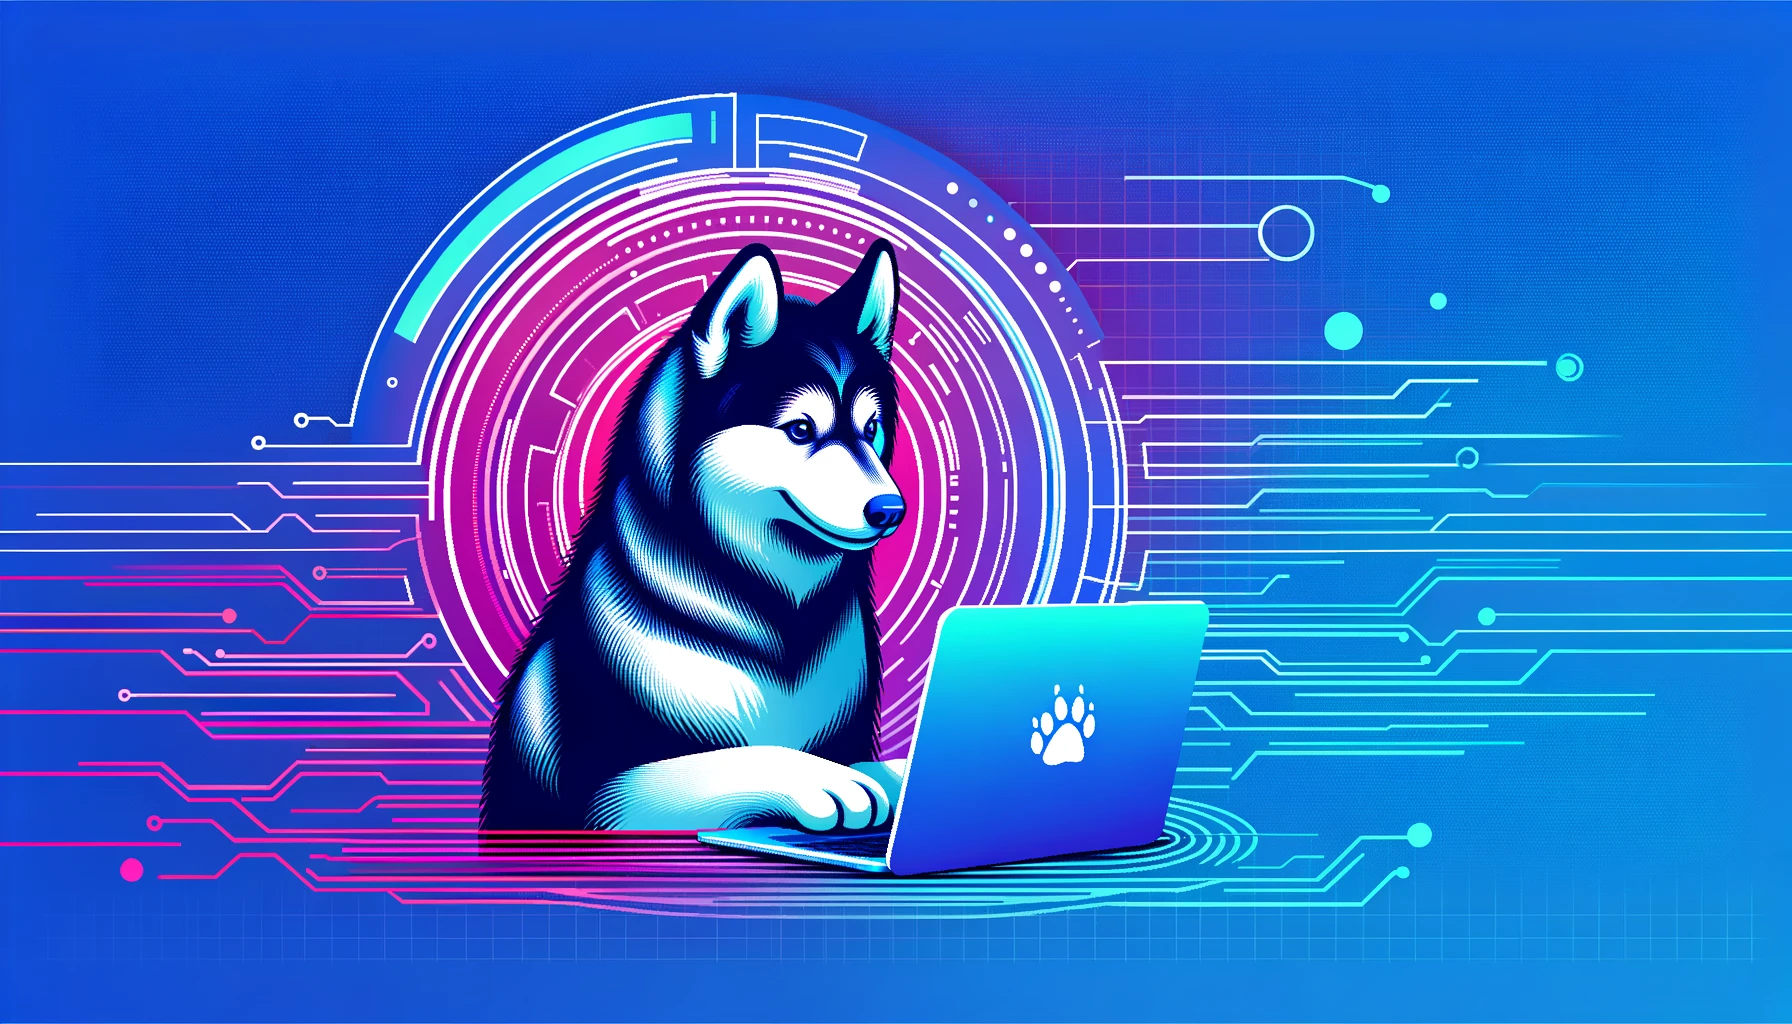
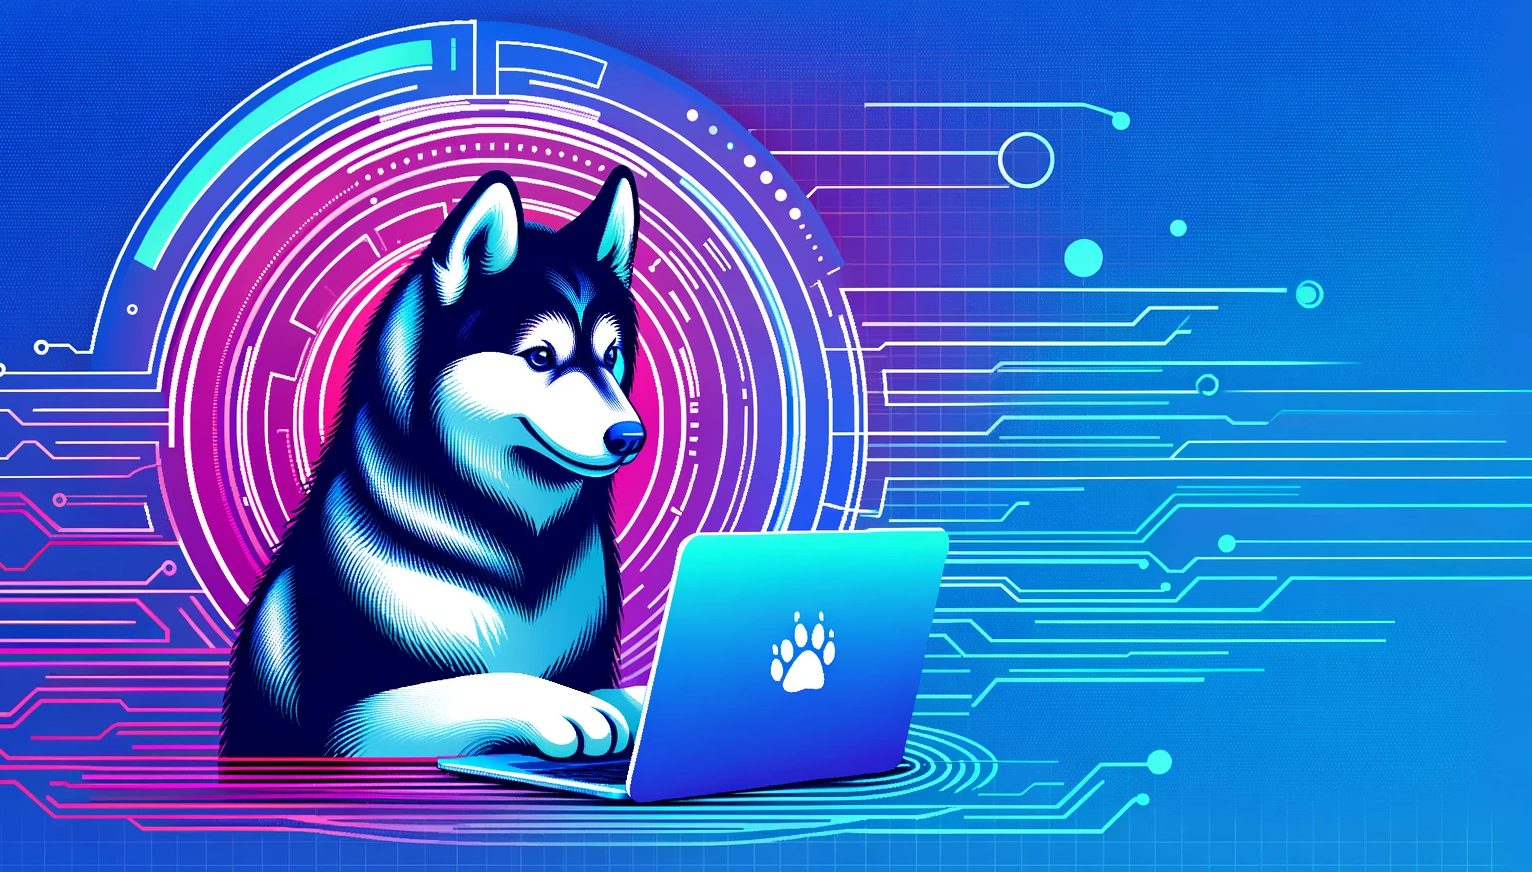
splash screen rework. rough draft. added cropped husky. done by hand, pretty bad lol.

diff --git a/src/Home/Hero.js b/src/Home/Hero.js
@@ -2,6 +2,7 @@
 import "./Home.css"
 import CountDownTimer from "./CountDownTimer";
 import {useEffect} from "react";
+import hacker from './media/cropped_husky.PNG';
 
 export default function Hero() {
     useEffect(() => {
@@ -27,41 +28,53 @@ export default function Hero() {
             }, index++ * (interval / 3))
         }
     });
+    // return (
+    //     <>
+    //         <CountDownTimer/>
+    //         <div className="h-screen mx-auto py-32 sm:py-48 lg:py-56 bg-cyan bg-opacity-100" id="heroSection">
+    //             <div className="text-center">
+    //                 <h1 className="text-4xl sm:text-6xl font-bold tracking-tight">
+    //                     UWB
+    //                     <span> </span>
+    //                     <span className="magic">
+    //                         <span className="magic-star">
+    //                             <svg viewBox="0 0 512 512">
+    //                                 <path
+    //                                     d="M512 255.1c0 11.34-7.406 20.86-18.44 23.64l-171.3 42.78l-42.78 171.1C276.7 504.6 267.2 512 255.9 512s-20.84-7.406-23.62-18.44l-42.66-171.2L18.47 279.6C7.406 276.8 0 267.3 0 255.1c0-11.34 7.406-20.83 18.44-23.61l171.2-42.78l42.78-171.1C235.2 7.406 244.7 0 256 0s20.84 7.406 23.62 18.44l42.78 171.2l171.2 42.78C504.6 235.2 512 244.6 512 255.1z"/>
+    //                             </svg>
+    //                         </span>
+    //                         <span className="magic-star">
+    //                             <svg viewBox="0 0 512 512">
+    //                                 <path
+    //                                     d="M512 255.1c0 11.34-7.406 20.86-18.44 23.64l-171.3 42.78l-42.78 171.1C276.7 504.6 267.2 512 255.9 512s-20.84-7.406-23.62-18.44l-42.66-171.2L18.47 279.6C7.406 276.8 0 267.3 0 255.1c0-11.34 7.406-20.83 18.44-23.61l171.2-42.78l42.78-171.1C235.2 7.406 244.7 0 256 0s20.84 7.406 23.62 18.44l42.78 171.2l171.2 42.78C504.6 235.2 512 244.6 512 255.1z"/>
+    //                             </svg>
+    //                         </span>
+    //                         <span className="magic-star">
+    //                             <svg viewBox="0 0 512 512">
+    //                             <path
+    //                                 d="M512 255.1c0 11.34-7.406 20.86-18.44 23.64l-171.3 42.78l-42.78 171.1C276.7 504.6 267.2 512 255.9 512s-20.84-7.406-23.62-18.44l-42.66-171.2L18.47 279.6C7.406 276.8 0 267.3 0 255.1c0-11.34 7.406-20.83 18.44-23.61l171.2-42.78l42.78-171.1C235.2 7.406 244.7 0 256 0s20.84 7.406 23.62 18.44l42.78 171.2l171.2 42.78C504.6 235.2 512 244.6 512 255.1z"/>
+    //                             </svg>
+    //                         </span>
+    //                         <span className="magic-text">
+    //                             Theme Unannounced
+    //                         </span>
+    //                     </span>
+    //                 </h1>
+    //             </div>
+    //             <div className="flex flex-col items-center justify-center mt-3 sm:mt-5 mx-auto text-center">
+    //                     <span className="text-xl font-semibold text-light-purple sm:text-2xl">2024 @ <a target="_blank" href="https://www.uwb.edu/arc" className="hover:text-yellow">UWB ARC</a></span>
+    //             </div>
+    //         </div>
+    //     </>
+    // );
     return (
         <>
             <CountDownTimer/>
-            <div className="h-screen mx-auto py-32 sm:py-48 lg:py-56 bg-light-gray bg-opacity-50" id="heroSection">
-                <div className="text-center">
-                    <h1 className="text-4xl sm:text-6xl font-bold tracking-tight">
-                        UWB
-                        <span> </span>
-                        <span className="magic">
-                            <span className="magic-star">
-                                <svg viewBox="0 0 512 512">
-                                    <path
-                                        d="M512 255.1c0 11.34-7.406 20.86-18.44 23.64l-171.3 42.78l-42.78 171.1C276.7 504.6 267.2 512 255.9 512s-20.84-7.406-23.62-18.44l-42.66-171.2L18.47 279.6C7.406 276.8 0 267.3 0 255.1c0-11.34 7.406-20.83 18.44-23.61l171.2-42.78l42.78-171.1C235.2 7.406 244.7 0 256 0s20.84 7.406 23.62 18.44l42.78 171.2l171.2 42.78C504.6 235.2 512 244.6 512 255.1z"/>
-                                </svg>
-                            </span>
-                            <span className="magic-star">
-                                <svg viewBox="0 0 512 512">
-                                    <path
-                                        d="M512 255.1c0 11.34-7.406 20.86-18.44 23.64l-171.3 42.78l-42.78 171.1C276.7 504.6 267.2 512 255.9 512s-20.84-7.406-23.62-18.44l-42.66-171.2L18.47 279.6C7.406 276.8 0 267.3 0 255.1c0-11.34 7.406-20.83 18.44-23.61l171.2-42.78l42.78-171.1C235.2 7.406 244.7 0 256 0s20.84 7.406 23.62 18.44l42.78 171.2l171.2 42.78C504.6 235.2 512 244.6 512 255.1z"/>
-                                </svg>
-                            </span>
-                            <span className="magic-star">
-                                <svg viewBox="0 0 512 512">
-                                <path
-                                    d="M512 255.1c0 11.34-7.406 20.86-18.44 23.64l-171.3 42.78l-42.78 171.1C276.7 504.6 267.2 512 255.9 512s-20.84-7.406-23.62-18.44l-42.66-171.2L18.47 279.6C7.406 276.8 0 267.3 0 255.1c0-11.34 7.406-20.83 18.44-23.61l171.2-42.78l42.78-171.1C235.2 7.406 244.7 0 256 0s20.84 7.406 23.62 18.44l42.78 171.2l171.2 42.78C504.6 235.2 512 244.6 512 255.1z"/>
-                                </svg>
-                            </span>
-                            <span className="magic-text">
-                                Theme Unannounced
-                            </span>
-                        </span>
-                    </h1>
-                </div>
-                <div className="flex flex-col items-center justify-center mt-3 sm:mt-5 mx-auto text-center">
-                        <span className="text-xl font-semibold text-light-purple sm:text-2xl">2024 @ <a target="_blank" href="https://www.uwb.edu/arc" className="hover:text-yellow">UWB ARC</a></span>
+            <div className="hero-container" id="heroSection">
+                <img src={hacker} alt="Husky Hacker" className="husky-image" />
+                <div className="text-container">
+                    <h1 className="theme-title">Theme Unannounced</h1>
+                    <p className="theme-location-time">2024 at UWB ARC</p>
                 </div>
             </div>
         </>

diff --git a/src/Home/Home.css b/src/Home/Home.css
@@ -147,3 +147,37 @@ h1 > .magic > .magic-text{
     transform: translateX(0px);
   }
 }
+
+.hero-container {
+  display: flex;
+  flex-direction: row; /* Align children side by side */
+  align-items: center; /* Center children vertically */
+  justify-content: center; /* Center children horizontally */
+  min-height: 90vh; /* Adjust to desired height, this is less than full viewport height */
+  background-color: #360a62; /* Your chosen background color */
+}
+
+/* Adjust .centered-image if it's still in use or replace with .husky-image */
+.husky-image {
+  max-width: 30%; /* Adjust the size of your image as needed */
+  margin-right: 2rem; /* Adds some space between the image and the text */
+}
+
+.text-container {
+  text-align: left; /* Aligns the text to the left */
+}
+
+
+.theme-title {
+  font-size: 4rem; /* Large text for the theme */
+  color: #FFFFFF; /* White text color */
+  margin: 0; /* Removes default margins */
+  font-family: 'Stacker', sans-serif;
+}
+
+.theme-location-time {
+  font-size: 2rem; /* Large text for location and time */
+  color: #FFFFFF; /* White text color */
+  margin: 0; /* Removes default margins */
+  font-family: 'Stacker', sans-serif;
+}
